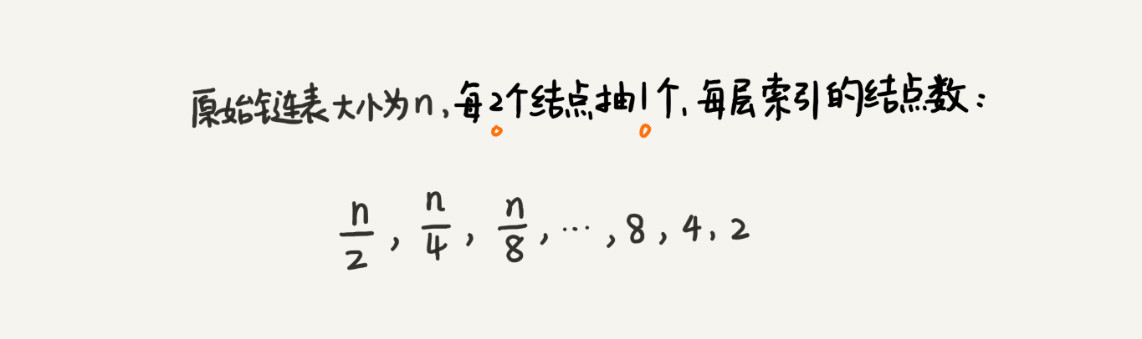
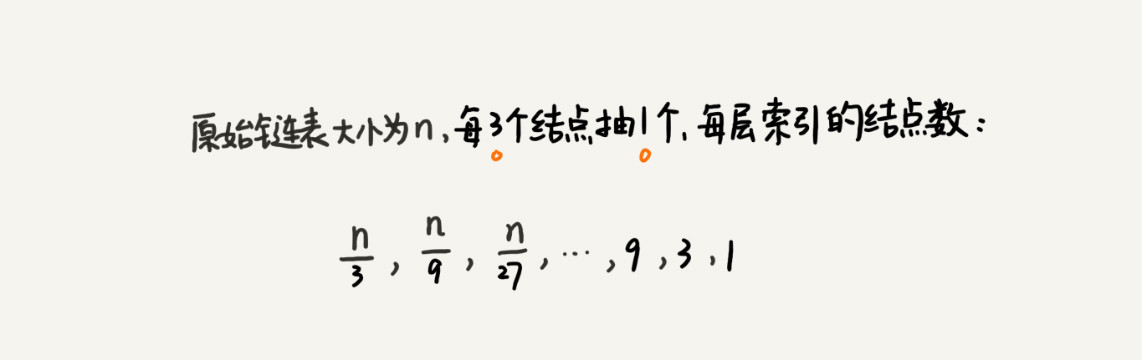
GitBook: [master] 82 pages and 30 assets modified

Changed region(s): [[0.1532, 0.2065, 0.8581, 0.4425], [0.2758, 0.5605, 0.6743, 0.7965]]

diff --git a/shu/hong-hei-shu.md b/shu/hong-hei-shu.md
@@ -13,13 +13,159 @@
 
 这里的第二点要求“叶子节点都是黑色的空节点”，稍微有些奇怪，它主要是为了简化红黑树的代码实现而设置的，我们暂时不考虑这一点，所以，在画图和讲解的时候，将黑色的、空的叶子节点都省略掉了。
 
-![](../.gitbook/assets/image%20%2891%29.png)
+![](../.gitbook/assets/image%20%2896%29.png)
 
 ## 如何理解红黑树是近似平衡的
 
 平衡二叉查找树的初衷，是为了解决二叉查找树因为动态更新导致的性能退化问题。所以，**“平衡”的意思可以等价为性能不退化。“近似平衡”就等价为性能不会退化的太严重。**
 
 二叉查找树很多操作的性能都跟树的高度成正比。一棵极其平衡的二叉树（满二叉树或完全二叉树）的高度大约是 log2n，所以如果要证明红黑树是近似平衡的，我们只需要分析，红黑树的高度是否比较稳定地趋近 log2n 就好了。
+
+我们来一步步推导一下红黑树的高度
+
+**首先，我们来看，如果我们将红色节点从红黑树中去掉，那单纯包含黑色节点的红黑树的高度是多少呢？**
+
+红色节点删除之后，有些节点就没有父节点了，它们会直接拿这些节点的祖父节点（父节点的父节点）作为父节点。所以，之前的二叉树就变成了四叉树。
+
+![](../.gitbook/assets/image%20%2889%29.png)
+
+前面红黑树的定义里有这么一条：从任意节点到可达的叶子节点的每个路径包含相同数目的黑色节点。我们从四叉树中取出某些节点，放到叶节点位置，四叉树就变成了完全二叉树。所以，仅包含黑色节点的四叉树的高度，比包含相同节点个数的完全二叉树的高度还要小。
+
+完全二叉树的高度近似 log2n，这里的四叉“黑树”的高度要低于完全二叉树，所以去掉红色节点的“黑树”的高度也不会超过 log2n。
+
+**我们现在知道只包含黑色节点的“黑树”的高度，那我们现在把红色节点加回去，高度会变成多少呢？**
+
+从上面红黑树的例子和定义看，在红黑树中，红色节点不能相邻，也就是说，有一个红色节点就要至少有一个黑色节点，将它跟其他红色节点隔开。红黑树中包含最多黑色节点的路径不会超过 log2n，所以加入红色节点之后，最长路径不会超过 2log2n，也就是说，红黑树的高度近似 2log2n。
+
+所以，红黑树的高度只比高度平衡的 AVL 树的高度（log2n）仅仅大了一倍，在性能上，下降得并不多。这样推导出来的结果不够精确，实际上红黑树的性能更好。
+
+## 红黑树实现的基本思想
+
+### 左旋与右旋
+
+左旋（rotate left）、右旋（rotate right）。左旋全称其实是叫围绕某个节点的左旋，右旋的全称就叫围绕某个节点的右旋。
+
+![](../.gitbook/assets/image%20%2880%29.png)
+
+### 插入操作的平衡调整
+
+红黑树规定，插入的节点必须是红色的。而且，二叉查找树中新插入的节点都是放在叶子节点上。所以，关于插入操作的平衡调整，有这样两种特殊情况，但是也都非常好处理。
+
+* 如果插入节点的父节点是黑色的，那我们什么都不用做，它仍然满足红黑树的定义。
+* 如果插入的节点是根节点，那我们直接改变它的颜色，把它变成黑色就可以了。
+
+除此之外，其他情况都会违背红黑树的定义，于是我们就需要进行调整，调整的过程包含两种基础的操作：**左右旋转和改变颜色。**
+
+红黑树的平衡调整过程是一个迭代的过程。我们把正在处理的节点叫作**关注节点**。关注节点会随着不停地迭代处理，而不断发生变化。最开始的关注节点就是新插入的节点。
+
+新节点插入之后，如果红黑树的平衡被打破，那一般会有下面三种情况。我们只需要根据每种情况的特点，不停地调整，就可以让红黑树继续符合定义，也就是继续保持平衡。
+
+我们下面依次来看每种情况的调整过程。提醒你注意下，为了简化描述，我把父节点的兄弟节点叫作叔叔节点，父节点的父节点叫作祖父节点。
+
+**CASE 1：如果关注节点是 a，它的叔叔节点 d 是红色**，我们就依次执行下面的操作：
+
+* 将关注节点 a 的父节点 b、叔叔节点 d 的颜色都设置成黑色；
+* 将关注节点 a 的祖父节点 c 的颜色设置成红色；
+* 关注节点变成 a 的祖父节点 c；
+* 跳到 CASE 2 或者 CASE 3；
+
+![](../.gitbook/assets/image%20%2884%29.png)
+
+**CASE 2：如果关注节点是 a，它的叔叔节点 d 是黑色，关注节点 a 是其父节点 b 的右子节点**，我们就依次执行下面的操作：
+
+* 关注节点变成节点 a 的父节点 b；
+* 围绕新的关注节点b 左旋；
+* 跳到 CASE 3；
+
+![](../.gitbook/assets/image%20%2885%29.png)
+
+**CASE 3：如果关注节点是 a，它的叔叔节点 d 是黑色，关注节点 a 是其父节点 b 的左子节点**，我们就依次执行下面的操作：
+
+* 围绕关注节点 a 的祖父节点 c 右旋；
+* 将关注节点 a 的父节点 b、兄弟节点 c 的颜色互换；
+* 调整结束；
+
+![](../.gitbook/assets/image%20%28105%29.png)
+
+### 删除操作的平衡调整
+
+删除操作的平衡调整分为两步
+
+* 第一步是**针对删除节点初步调整**。初步调整只是保证整棵红黑树在一个节点删除之后，仍然满足最后一条定义的要求，也就是说，每个节点，从该节点到达其可达叶子节点的所有路径，都包含相同数目的黑色节点；
+* 第二步是**针对关注节点进行二次调整**，让它满足红黑树的第三条定义，即不存在相邻的两个红色节点；
+
+#### 针对删除节点初步调整
+
+这里需要注意一下，红黑树的定义中“只包含红色节点和黑色节点”，经过初步调整之后，为了保证满足红黑树定义的最后一条要求，有些节点会被标记成两种颜色，“红 - 黑”或者“黑 - 黑”。如果一个节点被标记为了“黑 - 黑”，那在计算黑色节点个数的时候，要算成两个黑色节点。
+
+在下面的讲解中，如果一个节点既可以是红色，也可以是黑色，在画图的时候，我会用一半红色一半黑色来表示。如果一个节点是“红 - 黑”或者“黑 - 黑”，我会用左上角的一个小黑点来表示额外的黑色。
+
+**CASE 1：如果要删除的节点是 a，它只有一个子节点 b**，那我们就依次进行下面的操作：
+
+* 删除节点 a，并且把节点 b 替换到节点 a 的位置，这一部分操作跟普通的二叉查找树的删除操作一样；
+* 节点 a 只能是黑色，节点 b 也只能是红色，其他情况均不符合红黑树的定义。这种情况下，我们把节点 b 改为黑色；
+* 调整结束，不需要进行二次调整；
+
+![](../.gitbook/assets/image%20%28101%29.png)
+
+**CASE 2：如果要删除的节点 a 有两个非空子节点，并且它的后继节点就是节点 a 的右子节点 c**。我们就依次进行下面的操作：
+
+* 如果节点 a 的后继节点就是右子节点 c，那右子节点 c 肯定没有左子树。我们把节点 a 删除，并且将节点 c 替换到节点 a 的位置。这一部分操作跟普通的二叉查找树的删除操作无异；
+* 然后把节点 c 的颜色设置为跟节点 a 相同的颜色；
+* 如果节点 c 是黑色，为了不违反红黑树的最后一条定义，我们给节点 c 的右子节点 d 多加一个黑色，这个时候节点 d 就成了“红 - 黑”或者“黑 - 黑”；
+* 这个时候，关注节点变成了节点 d，第二步的调整操作就会针对关注节点来做；
+
+![](../.gitbook/assets/image%20%28107%29.png)
+
+**CASE 3：如果要删除的是节点 a，它有两个非空子节点，并且节点 a 的后继节点不是右子节点**，我们就依次进行下面的操作：
+
+* 找到后继节点 d，并将它删除，删除后继节点 d 的过程参照 CASE 1；
+* 将节点 a 替换成后继节点 d；
+* 把节点 d 的颜色设置为跟节点 a 相同的颜色；
+* 如果节点 d 是黑色，为了不违反红黑树的最后一条定义，我们给节点 d 的右子节点 c 多加一个黑色，这个时候节点 c 就成了“红 - 黑”或者“黑 - 黑”；
+* 这个时候，关注节点变成了节点 c，第二步的调整操作就会针对关注节点来做；
+
+![](../.gitbook/assets/image%20%28109%29.png)
+
+#### 针对关注节点进行二次调整
+
+经过初步调整之后，关注节点变成了“红 - 黑”或者“黑 - 黑”节点。针对这个关注节点，我们再分四种情况来进行二次调整。二次调整是为了让红黑树中不存在相邻的红色节点。
+
+**CASE 1：如果关注节点是 a，它的兄弟节点 c 是红色的**，我们就依次进行下面的操作：
+
+* 围绕关注节点 a 的父节点 b 左旋；
+* 关注节点 a 的父节点 b 和祖父节点 c 交换颜色；
+* 关注节点不变；
+* 继续从四种情况中选择适合的规则来调整；
+
+![](../.gitbook/assets/image%20%28103%29.png)
+
+**CASE 2：如果关注节点是 a，它的兄弟节点 c 是黑色的，并且节点 c 的左右子节点 d、e 都是黑色的**，我们就依次进行下面的操作：
+
+* 将关注节点 a 的兄弟节点 c 的颜色变成红色；
+* 从关注节点 a 中去掉一个黑色，这个时候节点 a 就是单纯的红色或者黑色；
+* 给关注节点 a 的父节点 b 添加一个黑色，这个时候节点 b 就变成了“红 - 黑”或者“黑 - 黑”；
+* 关注节点从 a 变成其父节点 b；
+* 继续从四种情况中选择符合的规则来调整；
+
+![](../.gitbook/assets/image%20%2897%29.png)
+
+**CASE 3：如果关注节点是 a，它的兄弟节点 c 是黑色，c 的左子节点 d 是红色，c 的右子节点 e 是黑色**，我们就依次进行下面的操作：
+
+* 围绕关注节点 a 的兄弟节点 c 右旋；
+* 节点 c 和节点 d 交换颜色；
+* 关注节点不变；
+* 跳转到 CASE 4，继续调整；
+
+**CASE 4：如果关注节点 a 的兄弟节点 c 是黑色的，并且 c 的右子节点是红色的**，我们就依次进行下面的操作：
+
+* 围绕关注节点 a 的父节点 b 左旋；
+* 将关注节点 a 的兄弟节点 c 的颜色，跟关注节点 a 的父节点 b 设置成相同的颜色；
+* 将关注节点 a 的父节点 b 的颜色设置为黑色；
+* 从关注节点 a 中去掉一个黑色，节点 a 就变成了单纯的红色或者黑色；
+* 将关注节点 a 的叔叔节点 e 设置为黑色；调整结束。
+
+![](../.gitbook/assets/image%20%2882%29.png)
 
 
 

diff --git a/cha-zhao/tiao-biao.md b/cha-zhao/tiao-biao.md
@@ -12,11 +12,11 @@ Redis 中的有序集合（Sorted Set）就是用跳表来实现的。
 
 对于一个单链表来讲，即便链表中存储的数据是有序的，如果我们要想在其中查找某个数据，也只能从头到尾遍历链表。这样查找效率就会很低，时间复杂度会很高，是 O\(n\)。
 
-![](../.gitbook/assets/image%20%2884%29.png)
+![](../.gitbook/assets/image%20%2888%29.png)
 
 那怎么来提高查找效率呢？如果像图中那样，对链表建立一级“索引”，查找起来是不是就会更快一些呢？每两个结点提取一个结点到上一级，我们把抽出来的那一级叫作索引或索引层。你可以看我画的图。图中的 down 表示 down 指针，指向下一级结点。
 
-![](../.gitbook/assets/image%20%2895%29.png)
+![](../.gitbook/assets/image%20%28102%29.png)
 
 如果我们现在要查找某个结点，比如 16。我们可以先在索引层遍历，当遍历到索引层中值为 13 的结点时，我们发现下一个结点是 17，那要查找的结点 16 肯定就在这两个结点之间。然后我们通过索引层结点的 down 指针，下降到原始链表这一层，继续遍历。这个时候，我们只需要再遍历 2 个结点，就可以找到值等于 16 的这个结点了。这样，原来如果要查找 16，需要遍历 10 个结点，现在只需要遍历 7 个结点。
 
@@ -24,11 +24,11 @@ Redis 中的有序集合（Sorted Set）就是用跳表来实现的。
 
 跟前面建立第一级索引的方式相似，我们在第一级索引的基础之上，每两个结点就抽出一个结点到第二级索引。现在我们再来查找 16，只需要遍历 6 个结点了，需要遍历的结点数量又减少了。
 
-![](../.gitbook/assets/image%20%2897%29.png)
+![](../.gitbook/assets/image%20%28106%29.png)
 
 例子数据量不大，所以即便加了两级索引，查找效率的提升也并不明显。为了让你能真切地感受索引提升查询效率。我画了一个包含 64 个结点的链表，按照前面讲的这种思路，建立了五级索引。
 
-![](../.gitbook/assets/image%20%2889%29.png)
+![](../.gitbook/assets/image%20%2894%29.png)
 
 从图中我们可以看出，原来没有索引的时候，查找 62 需要遍历 62 个结点，现在只需要遍历 11 个结点，速度是不是提高了很多？所以，当链表的长度 n 比较大时，比如 1000、10000 的时候，在构建索引之后，查找效率的提升就会非常明显。
 
@@ -42,7 +42,7 @@ Redis 中的有序集合（Sorted Set）就是用跳表来实现的。
 
 假设我们要查找的数据是 x，在第 k 级索引中，我们遍历到 y 结点之后，发现 x 大于 y，小于后面的结点 z，所以我们通过 y 的 down 指针，从第 k 级索引下降到第 k-1 级索引。在第 k-1 级索引中，y 和 z 之间只有 3 个结点（包含 y 和 z），所以，我们在 K-1 级索引中最多只需要遍历 3 个结点，依次类推，每一级索引都最多只需要遍历 3 个结点。
 
-![](../.gitbook/assets/image%20%2894%29.png)
+![](../.gitbook/assets/image%20%28100%29.png)
 
 通过上面的分析，我们得到 m=3，所以在跳表中查询任意数据的时间复杂度就是 O\(logn\)。这个查找的时间复杂度跟二分查找是一样的。换句话说，我们其实是基于单链表实现了二分查找，是不是很神奇？不过，天下没有免费的午餐，这种查询效率的提升，前提是建立了很多级索引，也就是空间换时间的设计思路。
 
@@ -52,17 +52,17 @@ Redis 中的有序集合（Sorted Set）就是用跳表来实现的。
 
 跳表的空间复杂度分析并不难，我在前面说了，假设原始链表大小为 n，那第一级索引大约有 n/2 个结点，第二级索引大约有 n/4 个结点，以此类推，每上升一级就减少一半，直到剩下 2 个结点。如果我们把每层索引的结点数写出来，就是一个等比数列。
 
-![](../.gitbook/assets/image%20%2893%29.png)
+![](../.gitbook/assets/image%20%2899%29.png)
 
 这几级索引的结点总和就是 n/2+n/4+n/8…+8+4+2=n-2。所以，跳表的空间复杂度是 O\(n\)。也就是说，如果将包含 n 个结点的单链表构造成跳表，我们需要额外再用接近 n 个结点的存储空间。那我们有没有办法降低索引占用的内存空间呢？
 
 我们前面都是每两个结点抽一个结点到上级索引，如果我们每三个结点或五个结点，抽一个结点到上级索引，是不是就不用那么多索引结点了呢？我画了一个每三个结点抽一个的示意图，你可以看下。
 
-![](../.gitbook/assets/image%20%2887%29.png)
+![](../.gitbook/assets/image%20%2892%29.png)
 
 从图中可以看出，第一级索引需要大约 n/3 个结点，第二级索引需要大约 n/9 个结点。每往上一级，索引结点个数都除以 3。为了方便计算，我们假设最高一级的索引结点个数是 1。我们把每级索引的结点个数都写下来，也是一个等比数列。
 
-![](../.gitbook/assets/image%20%2888%29.png)
+![](../.gitbook/assets/image%20%2893%29.png)
 
 通过等比数列求和公式，总的索引结点大约就是 n/3+n/9+n/27+…+9+3+1=n/2。尽管空间复杂度还是 O\(n\)，但比上面的每两个结点抽一个结点的索引构建方法，要减少了一半的索引结点存储空间。
 
@@ -76,7 +76,7 @@ Redis 中的有序集合（Sorted Set）就是用跳表来实现的。
 
 对于纯粹的单链表，需要遍历每个结点，来找到插入的位置。但是，对于跳表来说，我们讲过查找某个结点的的时间复杂度是 O\(logn\)，所以这里查找某个数据应该插入的位置，方法也是类似的，时间复杂度也是 O\(logn\)。我画了一张图，你可以很清晰地看到插入的过程。
 
-![](../.gitbook/assets/image%20%2885%29.png)
+![](../.gitbook/assets/image%20%2890%29.png)
 
 
 
@@ -88,7 +88,7 @@ Redis 中的有序集合（Sorted Set）就是用跳表来实现的。
 
 当我们不停地往跳表中插入数据时，如果我们不更新索引，就有可能出现某 2 个索引结点之间数据非常多的情况。极端情况下，跳表还会退化成单链表。
 
-![](../.gitbook/assets/image%20%2886%29.png)
+![](../.gitbook/assets/image%20%2891%29.png)
 
 作为一种动态数据结构，我们需要某种手段来维护索引与原始链表大小之间的平衡，也就是说，如果链表中结点多了，索引结点就相应地增加一些，避免复杂度退化，以及查找、插入、删除操作性能下降。
 
@@ -98,7 +98,7 @@ Redis 中的有序集合（Sorted Set）就是用跳表来实现的。
 
 我们通过一个随机函数，来决定将这个结点插入到哪几级索引中，比如随机函数生成了值 K，那我们就将这个结点添加到第一级到第 K 级这 K 级索引中。
 
-![](../.gitbook/assets/image%20%2880%29.png)
+![](../.gitbook/assets/image%20%2881%29.png)
 
 随机函数的选择很有讲究，从概率上来讲，能够保证跳表的索引大小和数据大小平衡性，不至于性能过度退化。
 

diff --git a/shu/ping-heng-er-cha-cha-zhao-shu.md b/shu/ping-heng-er-cha-cha-zhao-shu.md
@@ -4,7 +4,7 @@
 
 平衡二叉树的严格定义是这样的：二叉树中任意一个节点的左右子树的高度相差不能大于 1。从这个定义来看，上一节我们讲的完全二叉树、满二叉树其实都是平衡二叉树，但是非完全二叉树也有可能是平衡二叉树。
 
-![](../.gitbook/assets/image%20%2883%29.png)
+![](../.gitbook/assets/image%20%2887%29.png)
 
 平衡二叉查找树不仅满足上面平衡二叉树的定义，还满足二叉查找树的特点。最先被发明的平衡二叉查找树是**AVL 树**，它严格符合我刚讲到的平衡二叉查找树的定义，即任何节点的左右子树高度相差不超过 1，是一种高度平衡的二叉查找树。
 

diff --git a/xian-xing-biao/lian-biao/chang-jian-suan-fa/fu-za-lian-biao-de-fu-zhi.md b/xian-xing-biao/lian-biao/chang-jian-suan-fa/fu-za-lian-biao-de-fu-zhi.md
@@ -4,7 +4,7 @@
 
 示例 1：
 
-![](../../../.gitbook/assets/image%20%2896%29.png)
+![](../../../.gitbook/assets/image%20%28104%29.png)
 
 ```text
 输入：head = [[7,null],[13,0],[11,4],[10,2],[1,0]] 
@@ -13,7 +13,7 @@
 
 示例 2：
 
-![](../../../.gitbook/assets/image%20%2890%29.png)
+![](../../../.gitbook/assets/image%20%2895%29.png)
 
 ```text
 输入：head = [[1,1],[2,1]] 
@@ -22,7 +22,7 @@
 
 示例 3：
 
-![](../../../.gitbook/assets/image%20%2882%29.png)
+![](../../../.gitbook/assets/image%20%2886%29.png)
 
 ```text
 输入：head = [[3,null],[3,0],[3,null]] 
